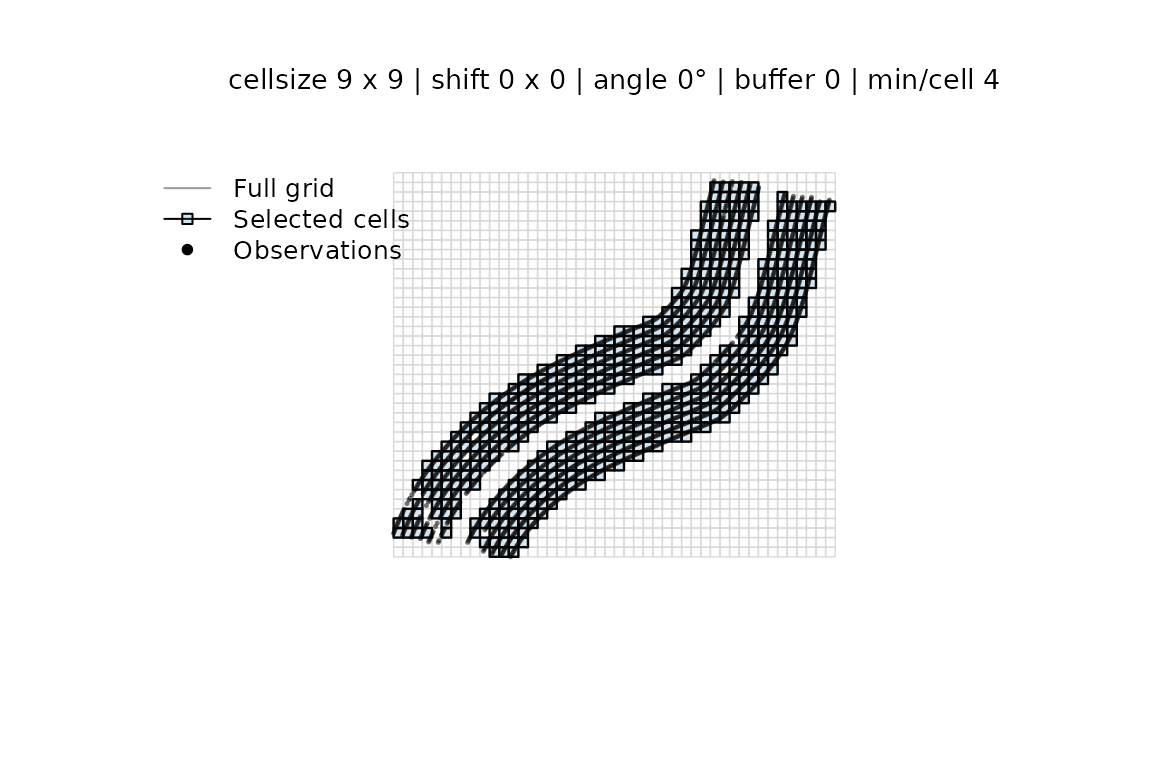
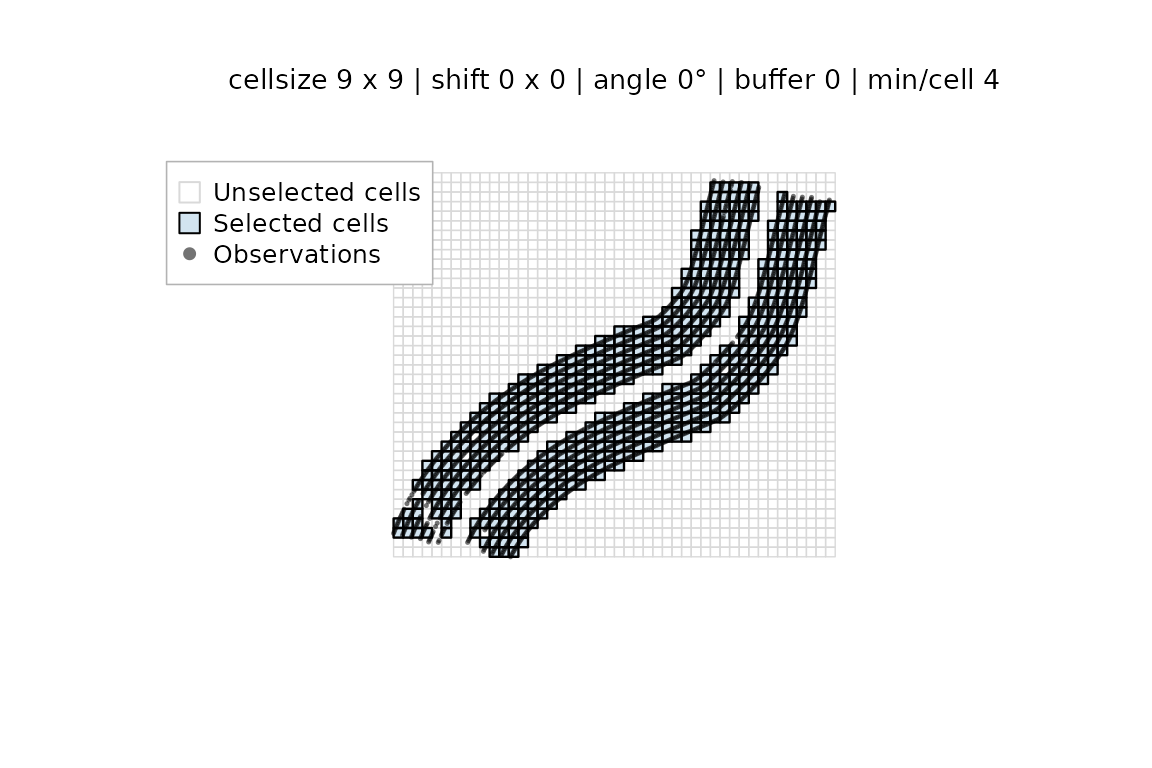
Deploying to gh-pages from @ PPaccioretti/ofemeantest@f39d2e2ad6b85c3e02f5664bbfcf8d0240fef74e 🚀

Changed region(s): [[0.125, 0.2188, 0.375, 0.375]]

diff --git a/reference/plot_grid_selection.html b/reference/plot_grid_selection.html
@@ -66,6 +66,7 @@ cell boundaries is the quickest way to judge the effect of `cellsize`,
 <span>  points <span class="op">=</span> <span class="cn">TRUE</span>,</span>
 <span>  main <span class="op">=</span> <span class="cn">NULL</span>,</span>
 <span>  legend <span class="op">=</span> <span class="cn">TRUE</span>,</span>
+<span>  legend_pos <span class="op">=</span> <span class="st">"topleft"</span>,</span>
 <span>  <span class="va">...</span></span>
 <span><span class="op">)</span></span>
 <span></span>
@@ -89,13 +90,17 @@ under `keep_components = "full"`.</p></dd>
 
 
 <dt id="arg-data">data<a class="anchor" aria-label="anchor" href="#arg-data"></a></dt>
-<dd><p>Optional `sf` points to overlay. Only needed for an `ofe_grid`,
-which does not carry the observations; for an `ofemt_result` it defaults
-to the stored `points_joined` and passing it explicitly overrides that.</p></dd>
+<dd><p>Optional `sf` points to overlay. Rarely needed: the observations
+are taken from the object itself — `points_sel` for an `ofe_grid` built
+with `make_ofe_grid(return_points = TRUE)`, `points_joined` for an
+`ofemt_result` run with `keep_components = "full"`. Pass `data` when the
+object carries no points, or to override the stored ones.</p></dd>
 
 
 <dt id="arg-points">points<a class="anchor" aria-label="anchor" href="#arg-points"></a></dt>
-<dd><p>Logical; set to `FALSE` to skip the point layer.</p></dd>
+<dd><p>Logical; set to `FALSE` to skip the point layer. When `TRUE`
+(the default) and no observations are available, a message explains how to
+obtain them rather than silently drawing a grid without points.</p></dd>
 
 
 <dt id="arg-main">main<a class="anchor" aria-label="anchor" href="#arg-main"></a></dt>
@@ -105,6 +110,11 @@ parameters, which is what makes successive calls comparable.</p></dd>
 
 <dt id="arg-legend">legend<a class="anchor" aria-label="anchor" href="#arg-legend"></a></dt>
 <dd><p>Logical; draw the legend. Default `TRUE`.</p></dd>
+
+
+<dt id="arg-legend-pos">legend_pos<a class="anchor" aria-label="anchor" href="#arg-legend-pos"></a></dt>
+<dd><p>Where to place the legend, passed to [graphics::legend()]
+(e.g. `"topleft"`, `"bottomright"`, or `"top"`). Default `"topleft"`.</p></dd>
 
 
 <dt id="arg--">...<a class="anchor" aria-label="anchor" href="#arg--"></a></dt>

diff --git a/reference/plot_grid_selection.md b/reference/plot_grid_selection.md
@@ -17,6 +17,7 @@ plot_grid_selection(
   points = TRUE,
   main = NULL,
   legend = TRUE,
+  legend_pos = "topleft",
   ...
 )
 
@@ -40,14 +41,18 @@ plot(x, ...)
 
 - data:
 
-  Optional \`sf\` points to overlay. Only needed for an \`ofe_grid\`,
-  which does not carry the observations; for an \`ofemt_result\` it
-  defaults to the stored \`points_joined\` and passing it explicitly
-  overrides that.
+  Optional \`sf\` points to overlay. Rarely needed: the observations are
+  taken from the object itself — \`points_sel\` for an \`ofe_grid\`
+  built with \`make_ofe_grid(return_points = TRUE)\`, \`points_joined\`
+  for an \`ofemt_result\` run with \`keep_components = "full"\`. Pass
+  \`data\` when the object carries no points, or to override the stored
+  ones.
 
 - points:
 
-  Logical; set to \`FALSE\` to skip the point layer.
+  Logical; set to \`FALSE\` to skip the point layer. When \`TRUE\` (the
+  default) and no observations are available, a message explains how to
+  obtain them rather than silently drawing a grid without points.
 
 - main:
 
@@ -57,6 +62,12 @@ plot(x, ...)
 - legend:
 
   Logical; draw the legend. Default \`TRUE\`.
+
+- legend_pos:
+
+  Where to place the legend, passed to \[graphics::legend()\] (e.g.
+  \`"topleft"\`, \`"bottomright"\`, or \`"top"\`). Default
+  \`"topleft"\`.
 
 - ...:
 
